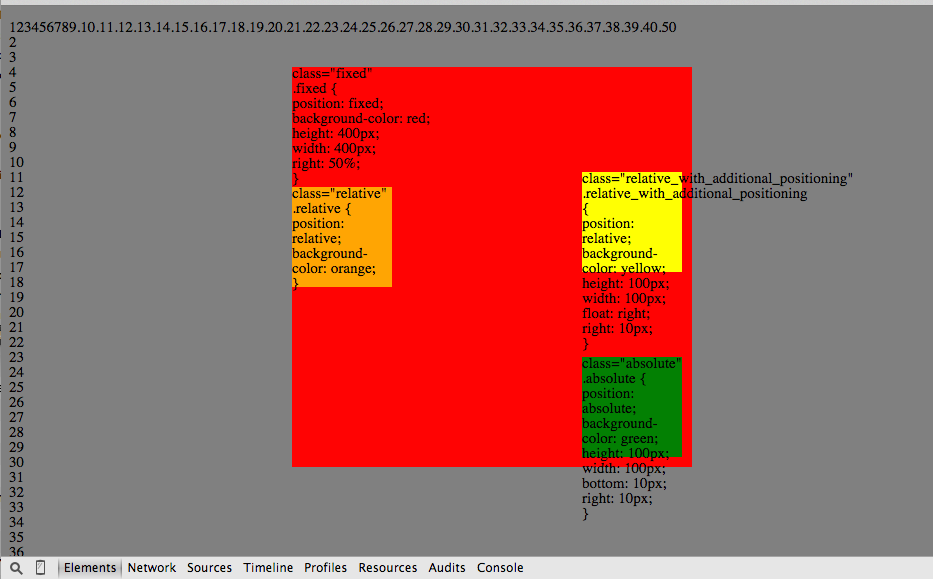
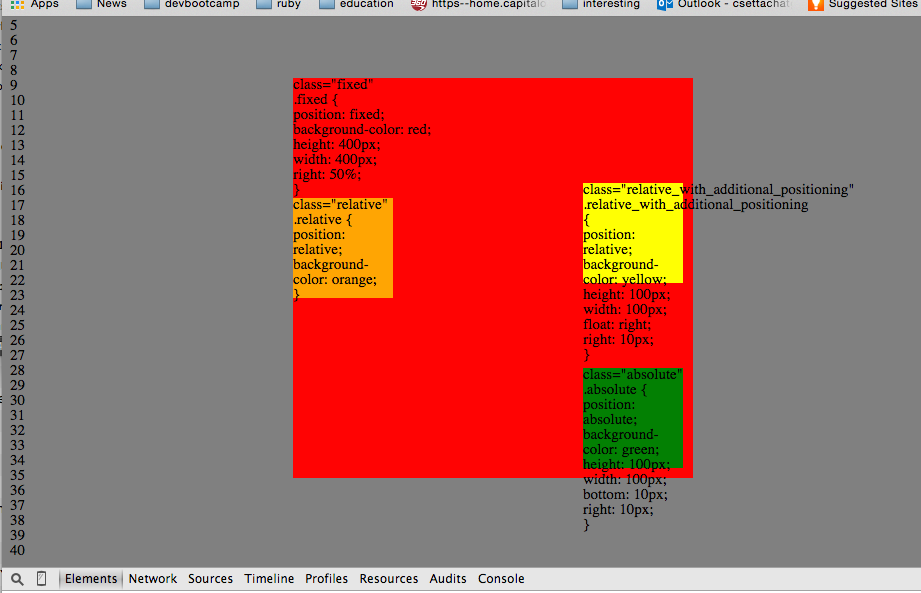
add images and change stylesheets and t2 css design blog

Changed region(s): [[0.304, 0.0933, 0.9425, 0.9016], [0.0, 0.0, 1.0, 1.0]]

diff --git a/blog/t2-css-design.html b/blog/t2-css-design.html
@@ -51,10 +51,14 @@
     <p>div { position: fixed;}
 
 
-      <img src="imgs/postion1.png" />
-      <img src="imgs/position2.png" />
-    <p></p>
-    <p></p>
+      <img height="100%" width="100%" src="../imgs/position1.png" />
+      <img height="100%" width="100%" src="../imgs/position2.png" />
+
+
+    <p>In the 2 below images there is a large div element that has a postion: fixed.  The CSS block is written below the class="fixed" designation.  As you can see the div element stays in place even though we scroll down shown in the image below.  The block stays in place in relation to the browser window.</p>
+    <p>The orange block is a relative div element with no additional positioning so that it appears below the text for the css code block.</p>
+    <p>The yellow block is a similar relative positioned element but has additional positioning so that it is floated right float: right of where it would have been otherwise and also moved left 10px with right: 10px</p>
+    <p>The green block is a block position: absolute.  It is positioned relative to the fixed red block but the positioning is not relative to the flow of the html document.  If the block were positioned relative it would have been positioned relative to a position just below the organge block.  In this case the additional positioning is absolute relative to the parent element.</p>
     <p></p>
   </div>
 

diff --git a/stylesheets/default.css b/stylesheets/default.css
@@ -25,9 +25,10 @@ div {
 }
 
 .main{
-  height: 70%;
+  height: 100%;
   width: 45%;
   float: left;
+  overflow: auto;
 
 }
 
@@ -36,6 +37,7 @@ div {
   width: 33%;
   height: 70%;
   float: right;
+  overflow: auto;
 }
 
 .button {

diff --git a/stylesheets/blog-stylesheet.css b/stylesheets/blog-stylesheet.css
@@ -12,6 +12,7 @@ html {
   float: right;
   width: 75%;
   height: 100%;
+  overflow: auto;
 }
 
 .nav_bar {
